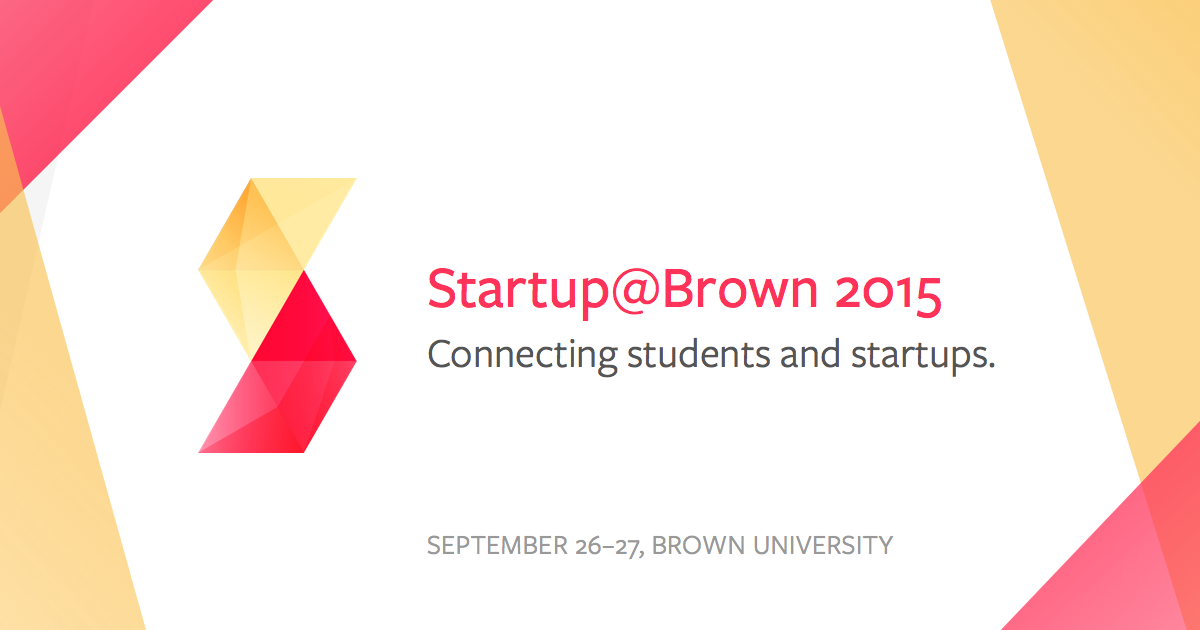
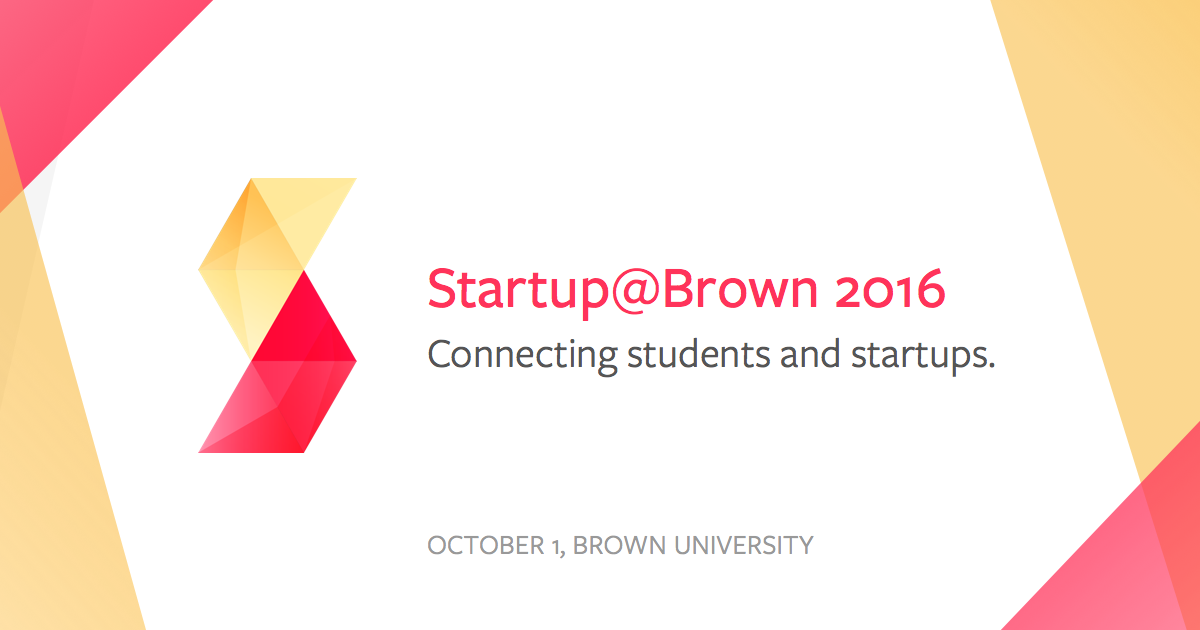
APPLICATIONS OPEN!

Changed region(s): [[0.3392, 0.8444, 0.74, 0.9048], [0.7708, 0.4222, 0.8017, 0.5127]]

diff --git a/index.html b/index.html
@@ -29,7 +29,7 @@ css:
         <h3 id="tagline" data-0="opacity:1;" data-18p="opacity:0;">CONNECTING STUDENTS AND STARTUPS</h3>
         <p id="event-info" data-0="opacity:1;" data-18p="opacity:0;">October 1, 2016 at Brown University</p>
         <div data-0="opacity:1;" data-10p="opacity:0;">
-          <button onclick="window.open('http://eepurl.com/bzrWy9','_blank');" id="register-button" class="centered">REGISTER</button>
+          <button onclick="window.open('https://startupatbrown.typeform.com/to/yvLVw5','_blank');" id="register-button" class="centered">REGISTER</button>
         </div>
       </div>
     </div>
@@ -145,8 +145,8 @@ css:
       </div>
       <div id="small-conversations" class="item">
         <div class="speaker-label">
-          <p class="speaker-name">Small Group Conversations</p>
-          <p class="speaker-description">Sit down with startup leaders and 10-12 other students in an intimate and lively discussion. Ask them anything!</p>
+          <p class="speaker-name">Startup Office Hours</p>
+          <p class="speaker-description">Sit down with startup leaders and 10-12 other students in an intimate and lively discussion. Walk around to the different startup rooms and ask them anything!</p>
         </div>
       </div>
       <div id="workshops" class="item">
@@ -165,8 +165,6 @@ css:
       <div class="row">
         <h2>Participating Companies</h2>
         <p>Meet the amazing startups and VC firms<br> participating in Startup@Brown 2016.</p>
-        <!--<p>If you'd like to be a sponsor for Startup@Brown 2016, <a href="/participate" target="_blank">learn more</a>, or <a href="mailto:sponsor@startupatbrown.org" class="">email us</a>.</p><br>-->
-
 
         <div class="company-row">
           <a href="http://a16z.com" target="_blank"><img id="a16z" src="img/companies/a16z.png" class="img-responsive"></img></a>
@@ -387,7 +385,7 @@ css:
           <h2>FAQs</h2>
           <h3>Who can attend Startup@Brown?</h3>
           <p>All Brown and RISD undergraduate and graduate students are welcome to apply. A background in computer science, design, engineering, or business is recommended but not required! </p>
-          <p>Student Startups from other colleges are welcome too. Apply to be one of the 20 student startups <a href="">here</a>. Startups will have office hours with the startup leaders and venture capitalists attending, a chance to demo their project, and a table to get feedback &amp; find collaborators.</p>
+          <p>Student Startups from other colleges are welcome too. Apply to be one of the 12 student startups <a href="https://startupatbrown.typeform.com/to/cnyxWB">here</a>. Startups will have special office hours with the startup leaders and venture capitalists attending, attend the workshops, and participate in a student startup panel to share their experiences as student entrepreneurs.</p>
           <h3>Why Startup@Brown?</h3>
           <p>As Brown students, while we get a lot of exposure to larger companies, we don’t often hear about the exciting work startups do and the challenges they face. At Startup@Brown, you’ll get the chance to talk in small groups with founders, engineering leads, and venture capitalists from Andreessen Horowitz, Y Combinator, Teespring, and more. Come to learn about startups and their stories. Leave with a new perspective and your next summer internship or full-time job.</p>
           <h3>What will the event be like?</h3>

diff --git a/_site/index.html b/_site/index.html
@@ -220,8 +220,8 @@
       </div>
       <div id="small-conversations" class="item">
         <div class="speaker-label">
-          <p class="speaker-name">Small Group Conversations</p>
-          <p class="speaker-description">Sit down with startup leaders and 10-12 other students in an intimate and lively discussion. Ask them anything!</p>
+          <p class="speaker-name">Startup Office Hours</p>
+          <p class="speaker-description">Sit down with startup leaders and 10-12 other students in an intimate and lively discussion. Walk around to the different startup rooms and ask them anything!</p>
         </div>
       </div>
       <div id="workshops" class="item">
@@ -240,8 +240,6 @@
       <div class="row">
         <h2>Participating Companies</h2>
         <p>Meet the amazing startups and VC firms<br> participating in Startup@Brown 2016.</p>
-        <!--<p>If you'd like to be a sponsor for Startup@Brown 2016, <a href="/participate" target="_blank">learn more</a>, or <a href="mailto:sponsor@startupatbrown.org" class="">email us</a>.</p><br>-->
-
 
         <div class="company-row">
           <a href="http://a16z.com" target="_blank"><img id="a16z" src="img/companies/a16z.png" class="img-responsive"></img></a>
@@ -462,7 +460,7 @@
           <h2>FAQs</h2>
           <h3>Who can attend Startup@Brown?</h3>
           <p>All Brown and RISD undergraduate and graduate students are welcome to apply. A background in computer science, design, engineering, or business is recommended but not required! </p>
-          <p>Student Startups from other colleges are welcome too. Apply to be one of the 20 student startups <a href="">here</a>. Startups will have office hours with the startup leaders and venture capitalists attending, a chance to demo their project, and a table to get feedback &amp; find collaborators.</p>
+          <p>Student Startups from other colleges are welcome too. Apply to be one of the 12 student startups <a href="">here</a>. Startups will have special office hours with the startup leaders and venture capitalists attending, attend the workshops, and participate in a student startup panel to share their experiences as student entrepreneurs.</p>
           <h3>Why Startup@Brown?</h3>
           <p>As Brown students, while we get a lot of exposure to larger companies, we don’t often hear about the exciting work startups do and the challenges they face. At Startup@Brown, you’ll get the chance to talk in small groups with founders, engineering leads, and venture capitalists from Andreessen Horowitz, Y Combinator, Teespring, and more. Come to learn about startups and their stories. Leave with a new perspective and your next summer internship or full-time job.</p>
           <h3>What will the event be like?</h3>
